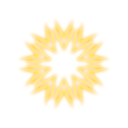
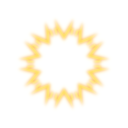
Enemy Exploder graphics and removed unnecessary code

Changed region(s): [[0.25, 0.25, 0.75, 0.75]]

diff --git a/Specular/src/com/tint/specular/game/entities/enemies/EnemyExploder.java b/Specular/src/com/tint/specular/game/entities/enemies/EnemyExploder.java
@@ -7,28 +7,36 @@ import com.badlogic.gdx.graphics.Texture;
 import com.badlogic.gdx.graphics.Texture.TextureFilter;
 import com.badlogic.gdx.graphics.g2d.Animation;
 import com.badlogic.gdx.graphics.g2d.SpriteBatch;
-import com.badlogic.gdx.utils.Array;
+import com.badlogic.gdx.graphics.g2d.TextureRegion;
 import com.tint.specular.game.GameState;
 import com.tint.specular.game.entities.Particle.Type;
 import com.tint.specular.game.entities.Player;
 import com.tint.specular.utils.Util;
 
+/**
+ * 
+ * @author Daniel Riissanen
+ * 
+ */
+
+
 public class EnemyExploder extends Enemy {
 
-	private static final int EXPLODE_RANGE_SQUARED = 400 * 400, FULL_FUSE = 100;
-	private static Texture tex, warningTex, explotionTex;
-	private float explotionRadius;
-	private float speed;
-	private float rotation;
-	private int fuse = FULL_FUSE;
-	private boolean fuseStart, exploded;
+	private static final int EXPLODE_RANGE_SQUARED = 400 * 400;
+	private Random random = new Random();
+	private boolean exploded;
 	
-	private Array<Enemy> enemiesHit = new Array<Enemy>();
+	// Animation
+	private static Animation spawnAnim, anim;
+	private static Texture warningTex, explotionTex;
+	private float rotation;
+	private float animFrameTime;
+	
+	// Movement
 	private int timeSinceLastDirChange;
 	private int dirChangeRate = 200;
 	private double angle, turnRate;
-	
-	private Random random = new Random();
+	private float speed;
 	
 	public EnemyExploder(float x, float y, GameState gs) {
 		super(x, y, gs, 2);
@@ -36,8 +44,12 @@ public class EnemyExploder extends Enemy {
 	}
 
 	public static void init() {
-		tex = new Texture(Gdx.files.internal("graphics/game/enemies/Enemy Exploder.png"));
-		tex.setFilter(TextureFilter.Linear, TextureFilter.Linear);
+		Texture spawnAnimTex = new Texture(Gdx.files.internal("graphics/game/enemies/Enemy Exploder Anim.png"));
+		spawnAnim = Util.getAnimation(spawnAnimTex, 128, 128, 1 / 16f, 0, 0, 3, 1);
+		
+		Texture animTex = new Texture(Gdx.files.internal("graphics/game/enemies/Enemy Exploder.png"));
+		animTex.setFilter(TextureFilter.Linear, TextureFilter.Linear);
+		anim = Util.getAnimation(animTex, 128, 128, 1 / 16f, 0, 0, 3, 1);
 		
 		explotionTex = new Texture(Gdx.files.internal("graphics/menu/settingsmenu/Circle.png"));
 		explotionTex.setFilter(TextureFilter.Linear, TextureFilter.Linear);
@@ -49,86 +61,60 @@ public class EnemyExploder extends Enemy {
 	@Override
 	protected void renderEnemy(SpriteBatch batch) {
 		rotation += Gdx.graphics.getDeltaTime();
-		
-		if(fuse > 0) {
-			// Normal animation
-			Util.drawCentered(batch, tex, x, y, rotation * 10 % 360);
-		} else {
-			// Explosion animation
-			explotionRadius = FULL_FUSE * (-fuse / 4f) / 2;
-			batch.draw(explotionTex, x - explotionRadius, y - explotionRadius , explotionRadius * 2, explotionRadius * 2);
-		}
+		animFrameTime += Gdx.graphics.getDeltaTime();
+
+		// Normal animation
+		TextureRegion frame = anim.getKeyFrame(animFrameTime, true);
+		Util.drawCentered(batch, frame, x, y, rotation * 10 % 360);
 	}
 	
 	@Override
 	public boolean update() {
-		if(super.update()) {
-			fuseStart = true;
-			if(fuse > 0)
-				fuse = 0;
-		}
-		updateSuicide();
-		return explotionRadius  * explotionRadius  > EXPLODE_RANGE_SQUARED; 
+		if(super.update() && !exploded)
+			explode();
+
+		return exploded; 
 	}
 
 	@Override
 	public void updateMovement() {
-		if(fuse > 0) {
-			timeSinceLastDirChange++;
-			
-			if(timeSinceLastDirChange > dirChangeRate) {
-				turnRate = random.nextInt(40) - 20;
-				timeSinceLastDirChange = 0;
-			}
-			angle += turnRate / 180 * Math.PI;
-			
-			dx = (float) (Math.cos(angle / 180 * Math.PI) * speed);
-			dy = (float) (Math.sin(angle / 180 * Math.PI) * speed);
-			x += dx * slowdown;
-			y += dy * slowdown;
-			
-			//Checking so that the enemy will not get outside the map
-			// Left edge. 20 for width and 18 for map border
-			if(x - 20 - 18 < 0) {
-				x = 20 + 18;
-				
-				angle = random.nextInt(90) - 45;
-			}
-			// Right edge
-			else if(x + 20 + 18 > gs.getCurrentMap().getWidth()){
-				x = gs.getCurrentMap().getWidth() - 20 - 18;
-				
-				angle = random.nextInt(90) + 135;
-			}
-			// Upper edge
-			if(y - 20 - 18 < 0) {
-				y = 20 + 18;
-				
-				angle = random.nextInt(90) + 45;
-			}
-			// Lower edge
-			else if(y + 20 + 18 > gs.getCurrentMap().getHeight()){
-				y = gs.getCurrentMap().getHeight() - 20 - 18;
-				
-				angle = random.nextInt(90) + 225;
-			}
+		timeSinceLastDirChange++;
+		
+		if(timeSinceLastDirChange > dirChangeRate) {
+			turnRate = random.nextInt(40) - 20;
+			timeSinceLastDirChange = 0;
 		}
-	}
-	
-	public void updateSuicide() {
-		if(fuseStart) {
-			fuse--;
+		angle += turnRate / 180 * Math.PI;
+		
+		dx = (float) (Math.cos(angle / 180 * Math.PI) * speed);
+		dy = (float) (Math.sin(angle / 180 * Math.PI) * speed);
+		x += dx * slowdown;
+		y += dy * slowdown;
+		
+		//Checking so that the enemy will not get outside the map
+		// Left edge. 20 for width and 18 for map border
+		if(x - 20 - 18 < 0) {
+			x = 20 + 18;
 			
-			if(fuse <= 0 && !exploded)
-				explode();
-		} else {
-			Player player = gs.getPlayer();
+			angle = random.nextInt(90) - 45;
+		}
+		// Right edge
+		else if(x + 20 + 18 > gs.getCurrentMap().getWidth()){
+			x = gs.getCurrentMap().getWidth() - 20 - 18;
 			
-			float distX = x - player.getX();
-			float distY = y - player.getY();
-			if(distX * distX + distY * distY < (getInnerRadius() + Player.getRadius() + 200) * (getInnerRadius() + Player.getRadius() + 200)) {
-				fuseStart = true;
-			}
+			angle = random.nextInt(90) + 135;
+		}
+		// Upper edge
+		if(y - 20 - 18 < 0) {
+			y = 20 + 18;
+			
+			angle = random.nextInt(90) + 45;
+		}
+		// Lower edge
+		else if(y + 20 + 18 > gs.getCurrentMap().getHeight()){
+			y = gs.getCurrentMap().getHeight() - 20 - 18;
+			
+			angle = random.nextInt(90) + 225;
 		}
 	}
 	
@@ -138,12 +124,12 @@ public class EnemyExploder extends Enemy {
 		
 		// Enemies
 		for(Enemy e : gs.getEnemies()) {
-			if(!e.equals(this) && !enemiesHit.contains(e, true)) {
+			if(!e.equals(this)) {
 				distanceSquared = (e.getX() - getX()) * (e.getX() - getX()) + (e.getY() - getY()) * (e.getY() - getY());
 				if(distanceSquared - 32 * 32 < EXPLODE_RANGE_SQUARED && distanceSquared + 32 * 32 > EXPLODE_RANGE_SQUARED) {
 					angle = Math.atan2(e.getY() - getY(), e.getX() - getX());
 					
-					// explosion power is how much the enemy is pushed
+					// Explosion power is how much the enemy is pushed
 					float explotionPower = 10 * (1 - distanceSquared / EXPLODE_RANGE_SQUARED);
 					float damage = (1f - (distanceSquared / EXPLODE_RANGE_SQUARED));
 					
@@ -168,7 +154,6 @@ public class EnemyExploder extends Enemy {
 		}
 		
 		exploded = true;
-		kill();
 	}
 
 	@Override
@@ -187,14 +172,14 @@ public class EnemyExploder extends Enemy {
 	}
 
 	@Override
-	public float getInnerRadius() {	return 16; }
+	public float getInnerRadius() {	return 45; }
 
 	@Override
-	public float getOuterRadius() {	return 32; }
+	public float getOuterRadius() {	return 64; }
 
 	@Override
 	protected Animation getSpawnAnim() {
-		return null;
+		return spawnAnim;
 	}
 
 	@Override

diff --git a/Specular/src/com/tint/specular/game/GameState.java b/Specular/src/com/tint/specular/game/GameState.java
@@ -284,18 +284,18 @@ public class GameState extends State {
 			// Removing destroyed entities
 			for(Iterator<Entity> it = entities.iterator(); it.hasNext();) {
 				Entity ent = it.next();
-				
 				if(ent.update()) {
 					if(ent instanceof Particle)
 						pass.getPool().free((Particle) ent);
-					else if(ent instanceof Enemy)
+					else if(ent instanceof Enemy) {
 						enemies.removeIndex(enemies.indexOf((Enemy) ent, true));
-					else if(ent instanceof PowerUp)
+					} else if(ent instanceof PowerUp)
 						powerups.removeIndex(powerups.indexOf((PowerUp) ent, true));
 					else if(ent instanceof Bullet) {
 						bullets.removeIndex(bullets.indexOf((Bullet) ent, true));
 						Bullet.free((Bullet) ent);
 					}
+					
 					it.remove();
 				}
 			}
@@ -391,18 +391,22 @@ public class GameState extends State {
 		Specular.camera.update();
 		game.batch.setProjectionMatrix(Specular.camera.combined);
 		
-		// Drawing analogsticks
+		// Game over screen
 		if(gameMode.isGameOver()) {
 			game.batch.setColor(Color.WHITE);
 			game.batch.draw(gameOverTex, -gameOverTex.getWidth() / 2, -gameOverTex.getHeight() / 2);
 			ggInputProcessor.getRetryBtn().render();
 			ggInputProcessor.getMenuBtn().render();
 			ggInputProcessor.getHighscoreBtn().render();
-		} else if(isPaused) { 
+		}
+		// Pause menu
+		else if(isPaused) { 
 			Util.drawCentered(game.batch, pauseTex, (Gdx.graphics.getWidth() - pauseTex.getWidth()) / 2, (Gdx.graphics.getHeight() - pauseTex.getHeight()) / 2, 0);
 			pauseInputProcessor.getResumeButton().render();
 			pauseInputProcessor.getToMenuButton().render();
-		} else {
+		}
+		// In-game
+		else {
 			gameInputProcessor.getShootStick().render(game.batch);
 			gameInputProcessor.getMoveStick().render(game.batch);
 

diff --git a/Specular/src/com/tint/specular/game/entities/WaveManager.java b/Specular/src/com/tint/specular/game/entities/WaveManager.java
@@ -52,7 +52,7 @@ public class WaveManager {
 	public void initWaves(GameState gs) {
 		Gdx.app.log("Specular", "Loading Waves");
 		wave1 = new Wave(gs, 0).setTotalDuration(20);
-		wave1.addEnemies(EnemyType.ENEMY_WANDERER, 10, Formation.EDGES);
+		wave1.addEnemies(EnemyType.ENEMY_EXPLODER, 10, Formation.EDGES);
 		
 		wave2 = new Wave(gs, 1).setTotalDuration(20);
 		wave2.addEnemies(ENEMY_CIRCLER, 5, Formation.RANDOM);
